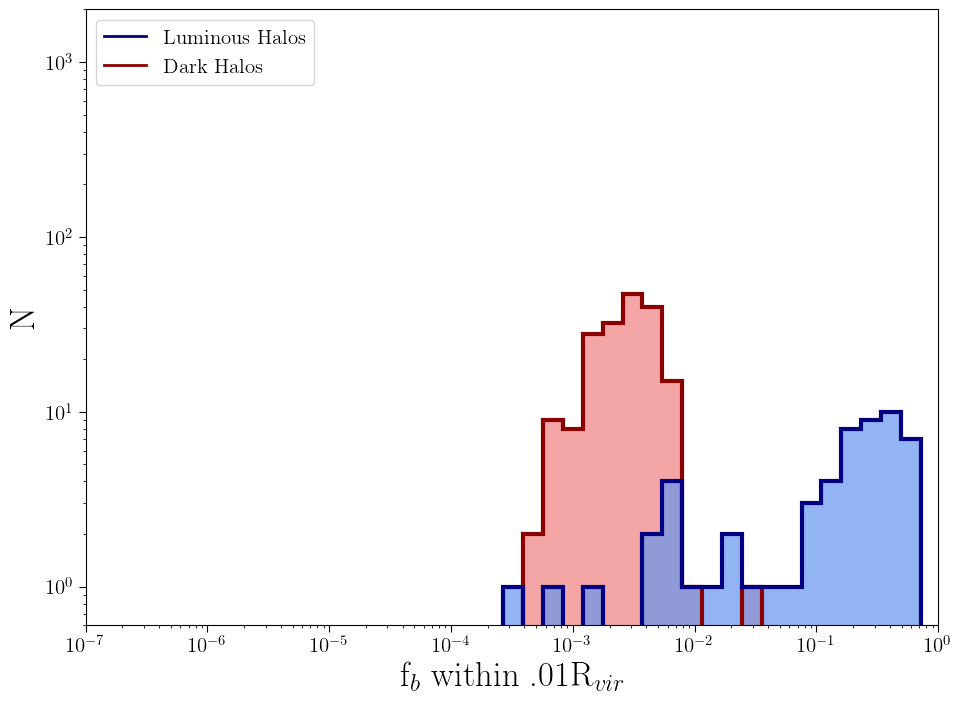
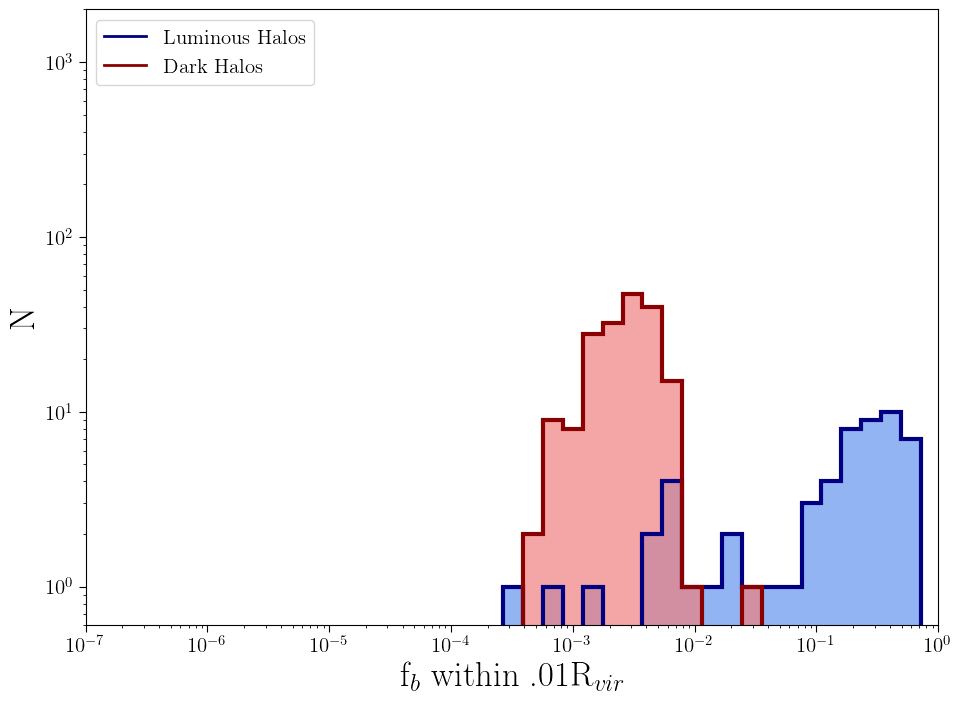
Updated with Plots for Marvelz0 Gas/Stellar frac, and Marvelz0 using only resolved halos

Changed region(s): [[0.6556, 0.688, 0.8117, 0.8974], [0.5307, 0.8376, 0.6243, 0.8974]]

diff --git a/Code/Plot.Marvel.z0.py b/Code/Plot.Marvel.z0.py
@@ -2,22 +2,41 @@ import argparse,imageio,os,pickle
 import numpy as np
 import matplotlib.pylab as plt
 from osxmetadata import OSXMetaData
+res_halos = {
+    'cptmarvel' :  [1,2,3,5,6,7,10,11,13,14,24],
+    'elektra' : [1,2,3,4,5,8,9,10,11,12,17,36,64],
+    'storm' : [1,2,3,4,5,6,7,8,10,11,12,14,15,22,23,31,37,44,48,55,118],
+    'rogue' : [1,3,7,8,10,11,12,15,16,17,28,31,37,58,116]
+}
+parser = argparse.ArgumentParser()
+parser.add_argument("-r","--resolved",action="store_true")
+args = parser.parse_args()
+
+res = '.Resolved' if args.resolved else ''
+skip_res = False if args.resolved else True
 
 Data = pickle.load(open('../DataFiles/Marvel.z0.pickle','rb'))
 Plots = {'dark':[],'luminous':[],'dark_Inner':[],'luminous_Inner':[],'dark_Center':[],'luminous_Center':[]}
 ObsPlots = {'dark':[],'luminous':[],'dark_Inner':[],'luminous_Inner':[],'dark_Center':[],'luminous_Center':[]}
+GasPlots = {'dark':[],'luminous':[],'dark_Inner':[],'luminous_Inner':[],'dark_Center':[],'luminous_Center':[]}
+StarPlots = {'dark':[],'luminous':[],'dark_Inner':[],'luminous_Inner':[],'dark_Center':[],'luminous_Center':[]}
 
 sims,c1,c2 = [['cptmarvel','elektra','storm','rogue'],['','_Inner','_Center'],['','.1','.01']]
 for s in sims:
     for h in Data[s]:
-        halo = Data[s][h]
-        for t in [0,1,2]:
-            if halo['Mstar']==0:
-                Plots['dark'+c1[t]].append(float((halo[c2[t]+'Mstar']+halo[c2[t]+'Mgas'])/halo[c2[t]+'Mvir']))
-                ObsPlots['dark'+c1[t]].append(float((.6*halo[c2[t]+'Mstar']+1.33*halo[c2[t]+'MHI'])/halo[c2[t]+'Mvir']))
-            else:
-                Plots['luminous'+c1[t]].append(float((halo[c2[t]+'Mstar']+halo[c2[t]+'Mgas'])/halo[c2[t]+'Mvir']))
-                ObsPlots['luminous'+c1[t]].append(float((.6*halo[c2[t]+'Mstar']+1.33*halo[c2[t]+'MHI'])/halo[c2[t]+'Mvir']))
+        if skip_res or (int(h) in res_halos[s]):
+            halo = Data[s][h]
+            for t in [0,1,2]:
+                if halo['Mstar']==0:
+                    Plots['dark'+c1[t]].append(float((halo[c2[t]+'Mstar']+halo[c2[t]+'Mgas'])/halo[c2[t]+'Mvir']))
+                    ObsPlots['dark'+c1[t]].append(float((.6*halo[c2[t]+'Mstar']+1.33*halo[c2[t]+'MHI'])/halo[c2[t]+'Mvir']))
+                    GasPlots['dark'+c1[t]].append(float((1.4*(halo[c2[t]+'MHI']+halo[c2[t]+'MHII']))/halo[c2[t]+'Mvir']))
+                    StarPlots['dark'+c1[t]].append(float(halo[c2[t]+'Mstar']/halo[c2[t]+'Mvir']))
+                else:
+                    Plots['luminous'+c1[t]].append(float((halo[c2[t]+'Mstar']+halo[c2[t]+'Mgas'])/halo[c2[t]+'Mvir']))
+                    ObsPlots['luminous'+c1[t]].append(float((.6*halo[c2[t]+'Mstar']+1.33*halo[c2[t]+'MHI'])/halo[c2[t]+'Mvir']))
+                    GasPlots['luminous'+c1[t]].append(float((1.4*(halo[c2[t]+'MHI']+halo[c2[t]+'MHII']))/halo[c2[t]+'Mvir']))
+                    StarPlots['luminous'+c1[t]].append(float(halo[c2[t]+'Mstar']/halo[c2[t]+'Mvir']))
 
 titles = ['Entire','Inner','Center']
 for t in [0,1,2]:
@@ -32,13 +51,14 @@ for t in [0,1,2]:
     bins = np.logspace(-7,1,50) 
     ax.plot(0,0,color='navy',linewidth=2,label='Luminous Halos')
     ax.plot(0,0,color='darkred',linewidth=2,label='Dark Halos')
-    ax.hist(Plots['dark'+c1[t]],bins,histtype='step',color='darkred',linewidth=3)
-    ax.hist(Plots['dark'+c1[t]],bins,color='lightcoral',alpha=.7)
     ax.hist(Plots['luminous'+c1[t]],bins,histtype='step',color='navy',linewidth=3)
     ax.hist(Plots['luminous'+c1[t]],bins,color='cornflowerblue',alpha=.7)
-    ax.legend(loc='upper left',prop={'size':15})
-    f.savefig(f'../Plots/Marvelz0.{titles[t]}.png',bbox_inches='tight',pad_inches=.1)
-    meta = OSXMetaData(f'../Plots/Marvelz0.{titles[t]}.png')
+    if not args.resolved:
+        ax.hist(Plots['dark'+c1[t]],bins,histtype='step',color='darkred',linewidth=3)
+        ax.hist(Plots['dark'+c1[t]],bins,color='lightcoral',alpha=.7)
+        ax.legend(loc='upper left',prop={'size':15})
+    f.savefig(f'../Plots/Marvelz0{res}.{titles[t]}.png',bbox_inches='tight',pad_inches=.1)
+    meta = OSXMetaData(f'../Plots/Marvelz0{res}.{titles[t]}.png')
     meta.creator='Plot.Marvel.z0.py'
     plt.close()
 
@@ -53,12 +73,57 @@ for t in [0,1,2]:
     bins = np.logspace(-11,1,80)
     ax.plot(0,0,color='navy',linewidth=2,label='Luminous Halos')
     ax.plot(0,0,color='darkred',linewidth=2,label='Dark Halos')
-    ax.hist(ObsPlots['dark'+c1[t]],bins,histtype='step',color='darkred',linewidth=3)
-    ax.hist(ObsPlots['dark'+c1[t]],bins,color='lightcoral',alpha=.7)
     ax.hist(ObsPlots['luminous'+c1[t]],bins,histtype='step',color='navy',linewidth=3)
     ax.hist(ObsPlots['luminous'+c1[t]],bins,color='cornflowerblue',alpha=.7)
-    ax.legend(loc='upper left',prop={'size':15})
-    f.savefig(f'../Plots/Marvelz0.{titles[t]}.Observed.png',bbox_inches='tight',pad_inches=.1)
-    meta = OSXMetaData(f'../Plots/Marvelz0.{titles[t]}.Observed.png')
+    if not args.resolved:
+        ax.hist(ObsPlots['dark'+c1[t]],bins,histtype='step',color='darkred',linewidth=3)
+        ax.hist(ObsPlots['dark'+c1[t]],bins,color='lightcoral',alpha=.7)
+        ax.legend(loc='upper left',prop={'size':15})
+    f.savefig(f'../Plots/Marvelz0{res}.{titles[t]}.Observed.png',bbox_inches='tight',pad_inches=.1)
+    meta = OSXMetaData(f'../Plots/Marvelz0{res}.{titles[t]}.Observed.png')
+    meta.creator='Plot.Marvel.z0.py'
+    plt.close()
+
+    f,ax = plt.subplots(1,1,figsize=(11,8))
+    ax.set_ylabel('N',fontsize=25)
+    ax.set_xlabel(r'Gas f$_{b}$ within '+c2[t]+r'R$_{vir}$',fontsize=25)
+    ax.tick_params(length=5,labelsize=15)
+    ax.set_xlim([1e-6,1])
+    ax.semilogx()
+    ax.set_ylim([6e-1,2e3])
+    ax.semilogy()
+    bins = np.logspace(-11,1,80)
+    ax.plot(0,0,color='navy',linewidth=2,label='Luminous Halos')
+    ax.plot(0,0,color='darkred',linewidth=2,label='Dark Halos')
+    ax.hist(GasPlots['luminous'+c1[t]],bins,histtype='step',color='navy',linewidth=3)
+    ax.hist(GasPlots['luminous'+c1[t]],bins,color='cornflowerblue',alpha=.7)
+    if not args.resolved:
+        ax.hist(GasPlots['dark'+c1[t]],bins,histtype='step',color='darkred',linewidth=3)
+        ax.hist(GasPlots['dark'+c1[t]],bins,color='lightcoral',alpha=.7)
+        ax.legend(loc='upper left',prop={'size':15})
+    f.savefig(f'../Plots/Marvelz0{res}.{titles[t]}.Gas.png',bbox_inches='tight',pad_inches=.1)
+    meta = OSXMetaData(f'../Plots/Marvelz0{res}.{titles[t]}.Gas.png')
+    meta.creator='Plot.Marvel.z0.py'
+    plt.close()
+
+    f,ax = plt.subplots(1,1,figsize=(11,8))
+    ax.set_ylabel('N',fontsize=25)
+    ax.set_xlabel(r'Stellar f$_{b}$ within '+c2[t]+r'R$_{vir}$',fontsize=25)
+    ax.tick_params(length=5,labelsize=15)
+    ax.set_xlim([10**(-6.2),1])
+    ax.semilogx()
+    ax.set_ylim([6e-1,2e3])
+    ax.semilogy()
+    bins = np.logspace(-11,1,80)
+    ax.plot(0,0,color='navy',linewidth=2,label='Luminous Halos')
+    ax.plot(0,0,color='darkred',linewidth=2,label='Dark Halos')
+    ax.hist(StarPlots['luminous'+c1[t]],bins,histtype='step',color='navy',linewidth=3)
+    ax.hist(StarPlots['luminous'+c1[t]],bins,color='cornflowerblue',alpha=.7)
+    if not args.resolved:
+        ax.hist(StarPlots['dark'+c1[t]],bins,histtype='step',color='darkred',linewidth=3)
+        ax.hist(StarPlots['dark'+c1[t]],bins,color='lightcoral',alpha=.7)
+        ax.legend(loc='upper left',prop={'size':15})
+    f.savefig(f'../Plots/Marvelz0{res}.{titles[t]}.Stellar.png',bbox_inches='tight',pad_inches=.1)
+    meta = OSXMetaData(f'../Plots/Marvelz0{res}.{titles[t]}.Stellar.png')
     meta.creator='Plot.Marvel.z0.py'
     plt.close()
